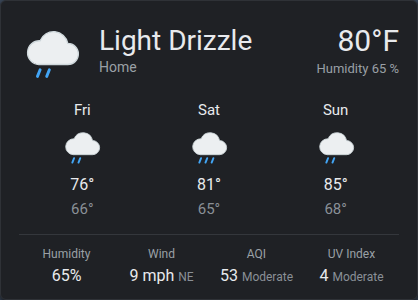
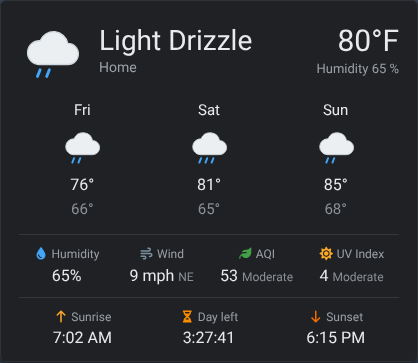
Update screenshots to show the sun row
Light and dark cards now show sunrise, the countdown to sunset and
sunset; the side-by-side picture shows the Night state after sunset.

Claude-Session: https://claude.ai/code/session_01A1YjNikjnyQLTm1stiM3Kf

diff --git a/README.md b/README.md
@@ -276,6 +276,8 @@ Pick the card with `css:`
 
 ![White and dark cards](examples/light-and-dark.png)
 
+Left: daytime, counting down to sunset. Right: after sunset, the countdown has switched to **Night**.
+
 Want just the top row, like a small status card? Use `forecastDays: 0`, `details: false` and
 `sun: false`.
 
